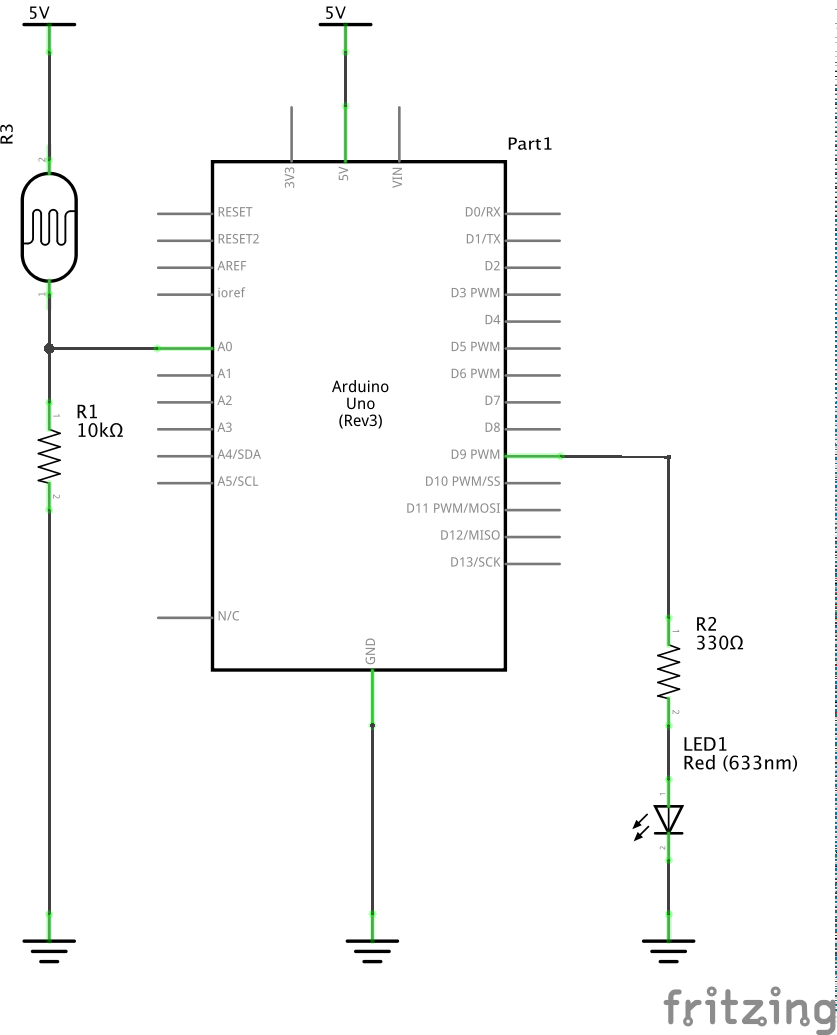
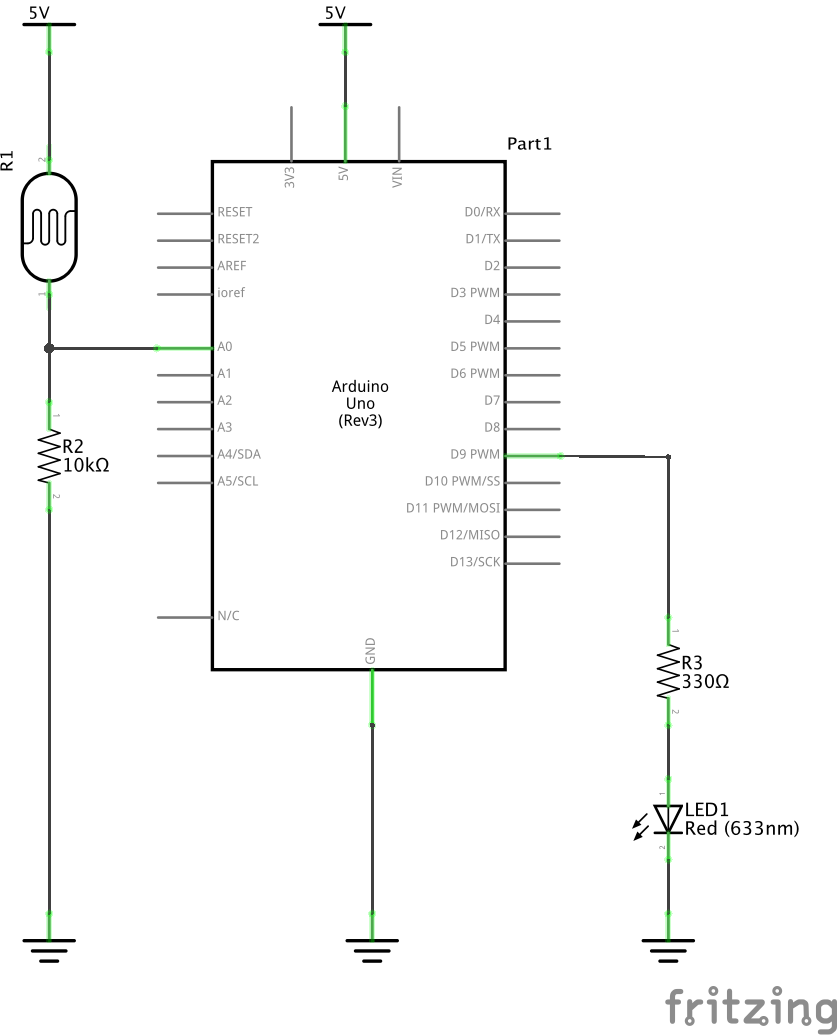
配線図と回路図に関する更新
- READMEを追加
- 全体のREADMEにライセンスを明記
- fig_01-01を更新

diff --git a/figures/README.md b/figures/README.md
@@ -1,0 +1,18 @@
+# 配線図と回路図
+
+本書では、電子回路入門者にとってのわかりやすさを優先し、部品間の配線を実物に近い図で示した配線図を用いて説明しました。配線図以外で電子回路を表す方法としては、部品をシンボルで表し、その論理的な接続を示す回路図が広く用いられており、特に複雑な電子回路において有効です。そこで、本書の内容からさらに先のことを学びたいという方の参考になるよう、掲載した配線図から主なものを抜粋し、対応する回路図とセットにしたものを配布いたします。
+
+なお、回路図で用いる記号については、日本やアメリカ、欧州といった地域ごとに微妙に異なるため、配線図や回路図、プリント基板を作成するための統合CADツール「[Fritzing](http://fritzing.org/)」に標準でバンドルされているライブラリのものを採用しています。
+
+![回路図シンボル一覧](symbols_schematic.png)
+
+また、本書の配線図は2色刷に最適化するためにIllustratorで作成し、さらに細かな部分にも調整をくわえているため、ここで配布しているものとは異なります。
+
+## クレジット
+
+* 配線図用部品の作図：[蛭田直（Sunao Hiruta）](https://github.com/SunaoHiruta)
+* 配線図及び回路図の作図：[小林茂（Shigeru Kobayashi）](https://github.com/kotobuki)
+
+## ライセンス
+
+* Fritzingの部品ライブラリに倣い、[クリエイティブ・コモンズ・ライセンス 表示 - 継承 4.0 国際](https://creativecommons.org/licenses/by-sa/4.0/deed.ja)で提供します

diff --git a/README.md b/README.md
@@ -30,4 +30,4 @@
 
 * examplesフォルダのサンプルは[クリエイティブ・コモンズ・ライセンス CC0 1.0 全世界](https://creativecommons.org/publicdomain/zero/1.0/deed.ja)で提供します
 * ただし、examples/arduino/libraries/FSMはAlexander Brevigが開発し、Terry Kingが更新した[HAL Libraries](http://arduino-info.wikispaces.com/HAL-LibrariesUpdates)の一部に修正を加えたもので、ライセンスはオリジナルに倣い[Creative Commons Attribution Non-Commercial 3.0 License](https://creativecommons.org/licenses/by-nc/3.0/)とします
-* fritzingフォルダのFritzing用部品ライブラリは[クリエイティブ・コモンズ・ライセンス 表示 - 継承 4.0 国際](https://creativecommons.org/licenses/by-sa/4.0/deed.ja)で提供します
+* figuresフォルダの配線図と回路図、fritzingフォルダのFritzing用部品ライブラリは[クリエイティブ・コモンズ・ライセンス 表示 - 継承 4.0 国際](https://creativecommons.org/licenses/by-sa/4.0/deed.ja)で提供します

diff --git a/fritzing/README.md b/fritzing/README.md
@@ -1,6 +1,6 @@
 # Fritzing用部品ライブラリ
 
-　本書の図版用に作成した部品の図版を、配線図や回路図、プリント基板CADを作成するための統合ツール「[Fritzing](http://fritzing.org/)」用に変換したものです。なお、書籍では2色刷に最適化しているため、Fritzingの[グラフィックに関する標準ルール](http://fritzing.org/fritzings-graphic-standards/)には準拠していません。
+本書の図版用に作成した部品の図版を、配線図や回路図、プリント基板を作成するための統合CADツール「[Fritzing](http://fritzing.org/)」用に変換したものです。なお、本書では2色刷に最適化しているため、Fritzingの[グラフィックに関する標準ルール](http://fritzing.org/fritzings-graphic-standards/)には準拠していません。
 
 ## クレジット
 

diff --git a/examples/README.md b/examples/README.md
@@ -2,7 +2,7 @@
 
 ## 動作環境
 
-　本書のサンプルは以下の環境で動作確認しました。
+本書のサンプルは以下の環境で動作確認しました。
 
 * [Arduino Uno R3](http://www.arduino.org/products/boards/arduino-uno)
 * [Arduino IDE](https://www.arduino.cc/en/Main/Software) 1.8.0
